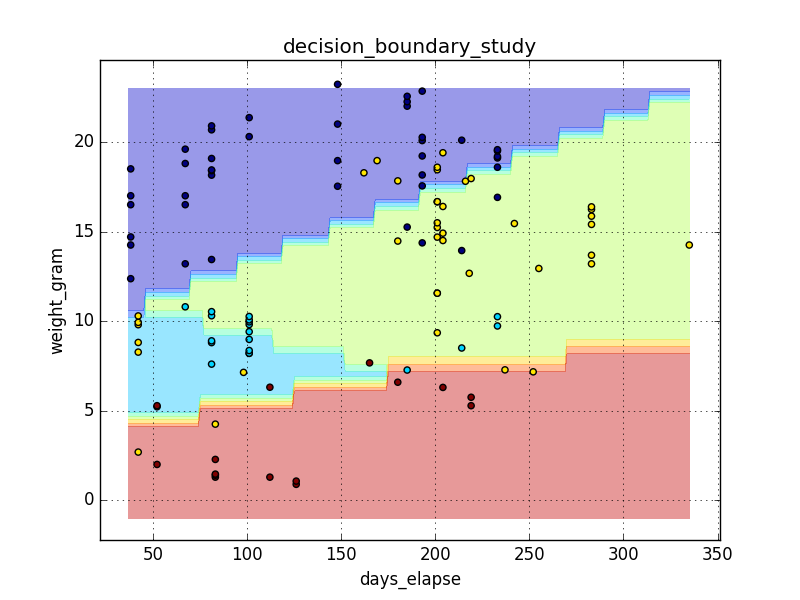
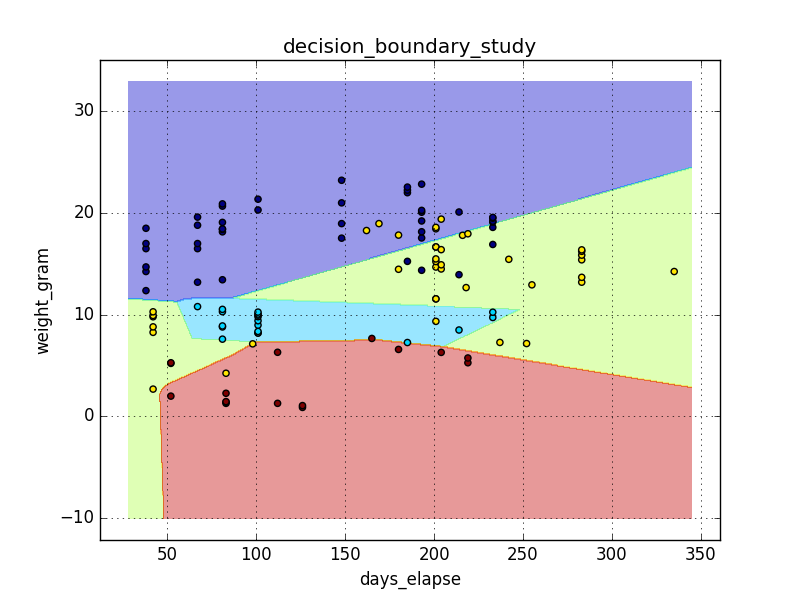
Add AutoEncoder

diff --git a/AutoEncoder.py b/AutoEncoder.py
@@ -1,0 +1,64 @@
+# -*- coding: utf-8 -*-
+
+import numpy as np
+import pandas as pd
+
+from keras.models import Sequential
+from keras.layers import Dense, Activation
+
+import matplotlib.pyplot as plt
+
+# load dataset
+df = pd.read_csv('dorcus_DL_study.csv')
+
+# number of training
+numTraining = 100
+
+# number of class
+Cls = list(df['class'].unique()) # [1, 2, 3, 4]
+numCls = len(Cls)
+
+# set data
+X = df[['days_elapse', 'weight_gram']]
+
+# set data for training
+trX = np.array(X)
+
+# encode
+autoencoder = Sequential()
+autoencoder.add(Dense(output_dim=10, input_dim=2, init='uniform'))
+autoencoder.add(Activation('relu'))
+autoencoder.add(Dense(output_dim=10, input_dim=10, init='uniform'))
+autoencoder.add(Activation('relu'))
+autoencoder.add(Dense(output_dim=4, input_dim=10, init='uniform'))
+autoencoder.add(Activation('softmax'))
+
+# decode
+autoencoder.add(Dense(output_dim=10, input_dim=4, init='uniform'))
+autoencoder.add(Activation('softmax'))
+autoencoder.add(Dense(output_dim=10, input_dim=10, init='uniform'))
+autoencoder.add(Activation('relu'))
+autoencoder.add(Dense(output_dim=2, input_dim=10, init='uniform'))
+autoencoder.add(Activation('relu'))
+
+# compile
+# autoencoder.compile(loss='sparse_categorical_crossentropy', optimizer='adagrad', metrics=['accuracy'])
+autoencoder.compile(loss='categorical_crossentropy', optimizer='adagrad', metrics=['accuracy'])
+
+# training
+his = autoencoder.fit(trX, trX, nb_epoch=numTraining, verbose=2)
+
+# plot result
+fig = plt.figure()
+ax1 = fig.add_subplot(1,1,1)
+ax1.plot(his.history['loss'])
+
+# save figure
+plt.savefig('loss_enc.png')
+
+# save model
+json_string = autoencoder.to_json()
+open('model_enc.json', 'w').write(json_string)
+
+# save parameters
+autoencoder.save_weights('param_enc.h5')

diff --git a/Additional_Tranining.py b/Additional_Tranining.py
@@ -3,24 +3,19 @@
 import numpy as np
 import pandas as pd
 
-from keras.models import Sequential, model_from_json
-from keras.layers import Dense, Activation
+from keras.models import model_from_json
 
 import matplotlib.pyplot as plt
+
+"""
+Module for additional training
+"""
 
 # load dataset
 df = pd.read_csv('dorcus_DL_study.csv')
 
-# load autoencoder
-autoencoder = model_from_json(open('model_enc.json').read())
-autoencoder.load_weights('param_enc.h5')
-
-# set initial parameters
-_w = autoencoder.get_weights()
-w = _w[:6]
-
 # number of training
-numTraining = 200000
+numTraining = 10000
 
 # number of class
 Cls = list(df['class'].unique()) # [1, 2, 3, 4]
@@ -39,17 +34,11 @@ def __trY(y):
 trY = np.array(list(__trY(Y))).reshape(len(Y), numCls)
 trX = np.array(X)
 
-# set model
-model = Sequential()
-model.add(Dense(output_dim=10, input_dim=2))
-model.add(Activation('relu'))
-model.add(Dense(output_dim=10, input_dim=10))
-model.add(Activation('relu'))
-model.add(Dense(output_dim=4, input_dim=10))
-model.add(Activation('softmax'))
+# load model
+model = model_from_json(open('model.json').read())
 
-# set initial weights
-model.set_weights(w)
+# load parameters
+model.load_weights('param.h5')
 
 # compile
 model.compile(loss='categorical_crossentropy', optimizer='adagrad', metrics=['accuracy'])

diff --git a/Plot.py b/Plot.py
@@ -45,9 +45,9 @@ print('Test accuracy :', score[1])
 # function for generating decision boundary
 def plot_decision_boundary(pred_func):
     # Set min and max values and give it some padding
-    x_min, x_max = int(trX[:, 0].min()) - 1, int(trX[:, 0].max()) + 1
-    y_min, y_max = int(trX[:, 1].min()) - 1, int(trX[:, 1].max()) + 1
-    h = 1
+    x_min, x_max = int(trX[:, 0].min()) - 10, int(trX[:, 0].max()) + 10
+    y_min, y_max = int(trX[:, 1].min()) - 10, int(trX[:, 1].max()) + 10
+    h = 0.1
 
     # Generate a grid of points with distance h between them
     xx, yy = np.meshgrid(np.arange(x_min, x_max, h), np.arange(y_min, y_max, h))

diff --git a/test.py b/test.py
@@ -45,9 +45,9 @@ print('Test accuracy :', score[1])
 # function for generating decision boundary
 def plot_decision_boundary(pred_func):
     # Set min and max values and give it some padding
-    x_min, x_max = int(trX[:, 0].min()) - 1, int(trX[:, 0].max()) + 1
-    y_min, y_max = int(trX[:, 1].min()) - 1, int(trX[:, 1].max()) + 1
-    h = 1
+    x_min, x_max = int(trX[:, 0].min()) - 10, int(trX[:, 0].max()) + 10
+    y_min, y_max = int(trX[:, 1].min()) - 10, int(trX[:, 1].max()) + 10
+    h = 0.1
 
     # Generate a grid of points with distance h between them
     xx, yy = np.meshgrid(np.arange(x_min, x_max, h), np.arange(y_min, y_max, h))
